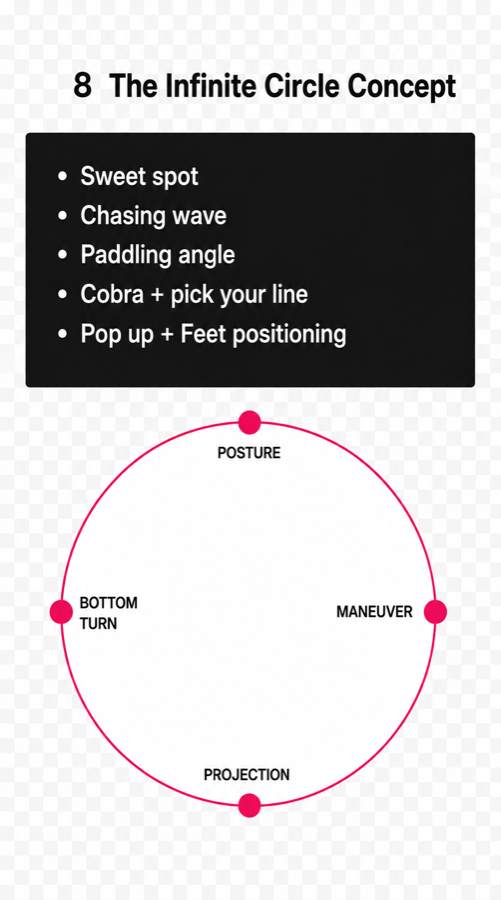
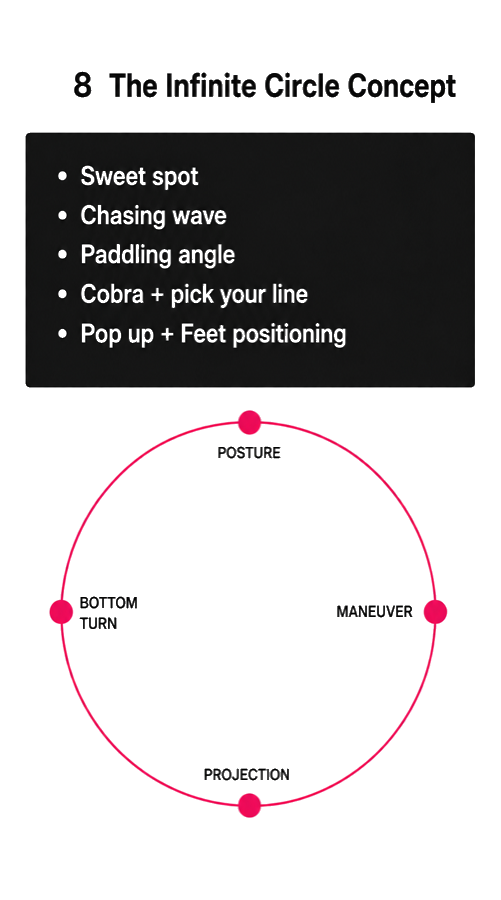
feat(analizador): sin damero, stickers volteables, carita feliz y dragon
Tres cosas que Marcelo vio usandolo con un video real.

1. EL DAMERO. "Los sticker algunos no salen sin fondo". Dos de sus archivos
   (tres-circulos y circulo-infinito) NO tienen transparencia: el damero
   gris de "fondo transparente" esta PINTADO adentro como pixeles. Se veia
   el ajedrez encima de la ola. scripts/clean-checker.py detecta esos
   pixeles (gris claro de baja saturacion) y los pasa a blanco, que es lo
   correcto para un sticker; los que si tienen alpha no se tocan. Corre solo
   dentro del sync, asi que si vuelve a pasar se limpia sin que nadie mire.
   De paso tres-circulos bajo de 665 KB a 159 KB.

2. VOLTEAR. "Quisiera darle vuelta a la pizza, ponerla flip, asi me sirve
   como angulo". Botones ⇋ y ⇅ con el sticker agarrado. El espejo se hace
   con escala negativa y el ancla al CENTRO del sticker, para que voltear no
   lo mueva de lugar; y el transformer toma el valor absoluto de la escala
   para no perder el espejo al redimensionar.

3. DOS STICKERS NUEVOS:
   · carita-feliz — para marcar lo que salio bien sin escribir nada.
   · dragon — cabeza de perfil volando hacia la derecha, con ala de membrana
     y cresta. Con ⇋ vuela hacia el otro lado, asi que sirve para los dos
     sentidos sin duplicar el archivo.

Once stickers: cinco suyos y seis dibujados que aprobo.

Changed region(s): [[0.3892, 0.3111, 0.4192, 0.3422], [0.1796, 0.2178, 0.2096, 0.2489]]

diff --git a/src/components/video-analyzer/DrawingCanvas.tsx b/src/components/video-analyzer/DrawingCanvas.tsx
@@ -126,6 +126,12 @@ function StickerNode({ shape, scale, selected, onSelect, onChange, opacity }: {
         width={shape.w ?? 200}
         height={shape.h ?? 200}
         rotation={shape.rot ?? 0}
+        // El espejo se hace con escala negativa y el punto de anclaje al
+        // medio, para que voltear NO mueva el sticker de lugar.
+        offsetX={(shape.w ?? 200) / 2}
+        offsetY={(shape.h ?? 200) / 2}
+        scaleX={shape.flipX ? -1 : 1}
+        scaleY={shape.flipY ? -1 : 1}
         opacity={(shape.alpha ?? 1) * opacity}
         draggable
         onPointerDown={onSelect}
@@ -135,14 +141,16 @@ function StickerNode({ shape, scale, selected, onSelect, onChange, opacity }: {
           if (!n) return;
           // Konva escala el nodo; lo pasamos a ancho/alto reales y reseteamos
           // la escala, así el sticker no se deforma al volver a tocarlo.
-          const sx = n.scaleX(), sy = n.scaleY();
-          n.scaleX(1); n.scaleY(1);
-          onChange({
-            points: [n.x(), n.y()],
-            w: Math.max(20, n.width() * sx),
-            h: Math.max(20, n.height() * sy),
-            rot: n.rotation(),
-          });
+          // El transformer deja la escala en el nodo; se pasa a ancho/alto
+          // reales. Se toma el VALOR ABSOLUTO para no perder el espejo, que
+          // vive aparte en flipX/flipY.
+          const sx = Math.abs(n.scaleX()), sy = Math.abs(n.scaleY());
+          const w = Math.max(20, n.width() * sx);
+          const h = Math.max(20, n.height() * sy);
+          n.scaleX(shape.flipX ? -1 : 1);
+          n.scaleY(shape.flipY ? -1 : 1);
+          n.offsetX(w / 2); n.offsetY(h / 2);
+          onChange({ points: [n.x(), n.y()], w, h, rot: n.rotation() });
         }}
       />
       {selected && (

diff --git a/src/components/video-analyzer/Toolbar.tsx b/src/components/video-analyzer/Toolbar.tsx
@@ -25,6 +25,7 @@ type Props = {
   stickerAlpha?: number | null;
   onStickerAlpha?: (a: number) => void;
   onDeleteSticker?: () => void;
+  onFlipSticker?: (axis: 'x' | 'y') => void;
   onChange: (next: DrawSettings) => void;
   onUndo: () => void;
   onClear: () => void;
@@ -38,6 +39,7 @@ export default function Toolbar({
   stickerAlpha,
   onStickerAlpha,
   onDeleteSticker,
+  onFlipSticker,
   onChange,
   onUndo,
   onClear,
@@ -119,6 +121,10 @@ export default function Toolbar({
             aria-label="Transparencia del sticker"
             className="w-20"
           />
+          {/* Voltear: la porción de pizza al revés sirve como ángulo hacia
+              el otro lado, sin necesidad de otro sticker. */}
+          <button onClick={() => onFlipSticker?.('x')} className={`${btn} bg-white/10`} title="Voltear horizontal">⇋</button>
+          <button onClick={() => onFlipSticker?.('y')} className={`${btn} bg-white/10`} title="Voltear vertical">⇅</button>
           <button onClick={onDeleteSticker} className={`${btn} bg-white/10`} title="Quitar sticker">✕</button>
         </div>
       )}

diff --git a/src/components/video-analyzer/VideoAnalyzer.tsx b/src/components/video-analyzer/VideoAnalyzer.tsx
@@ -353,7 +353,7 @@ export default function VideoAnalyzer({ scope }: { scope?: string }) {
       tool: "sticker",
       color: "#ffffff",
       width: 0,
-      points: [W / 2 - w / 2, H / 2 - (w * ratio) / 2],
+      points: [W / 2, H / 2],   // el punto guardado es el CENTRO (ver offsetX/Y)
       src,
       w,
       h: w * ratio,
@@ -744,6 +744,11 @@ export default function VideoAnalyzer({ scope }: { scope?: string }) {
         onAddSticker={addSticker}
         stickerAlpha={selectedSticker ? (selectedSticker.alpha ?? 0.85) : null}
         onStickerAlpha={(a) => updateSelected({ alpha: a })}
+        onFlipSticker={(axis) =>
+          updateSelected(axis === 'x'
+            ? { flipX: !selectedSticker?.flipX }
+            : { flipY: !selectedSticker?.flipY })
+        }
         onDeleteSticker={() => {
           if (!selectedId) return;
           const drop = (arr: Shape[]) => arr.filter((x) => x.id !== selectedId);

diff --git a/src/lib/constants/analyzer-stickers.ts b/src/lib/constants/analyzer-stickers.ts
@@ -14,6 +14,8 @@ export const STICKERS: StickerDef[] = [
   { id: 'ola', src: '/stickers/ola.png', ratio: 0.3333 },
   { id: 'tabla', src: '/stickers/tabla.png', ratio: 3.9474 },
   { id: 'tres-circulos', src: '/stickers/tres-circulos.png', ratio: 0.83 },
+  { id: 'carita-feliz', src: '/stickers/carita-feliz.svg', ratio: 1 },
+  { id: 'dragon', src: '/stickers/dragon.svg', ratio: 0.6774 },
   { id: 'llamas', src: '/stickers/llamas.svg', ratio: 0.3541 },
   { id: 'pizza-mitad', src: '/stickers/pizza-mitad.svg', ratio: 0.5755 },
   { id: 'pizza-porcion', src: '/stickers/pizza-porcion.svg', ratio: 1.303 },

diff --git a/src/components/video-analyzer/types.ts b/src/components/video-analyzer/types.ts
@@ -31,6 +31,8 @@ export type Shape = {
   h?: number;
   rot?: number;        // grados
   alpha?: number;      // 0..1 — para no tapar la ola
+  flipX?: boolean;     // espejo horizontal (la porción como ángulo al revés)
+  flipY?: boolean;     // espejo vertical
   // line / arrow: [x1, y1, x2, y2]
   // free: [x1, y1, x2, y2, ...]
   // circle: [cx, cy, radius]

diff --git a/scripts/clean-checker.py b/scripts/clean-checker.py
@@ -1,0 +1,27 @@
+# Quita el cuadriculado de "transparencia" que algunos exportadores PINTAN
+# dentro de la imagen. No es transparencia real: son píxeles grises y blancos,
+# y por eso salían con el damero encima del video.
+# Se reemplaza por blanco, que es lo correcto para un sticker.
+import sys
+from PIL import Image
+
+path = sys.argv[1]
+im = Image.open(path)
+if "A" in im.mode:            # ya tiene transparencia de verdad: no se toca
+    sys.exit(0)
+
+im = im.convert("RGB")
+px = im.load()
+w, h = im.size
+changed = 0
+for y in range(h):
+    for x in range(w):
+        r, g, b = px[x, y]
+        # Gris claro o blanco = damero. Se exige poca saturación para no
+        # tocar colores claros de verdad (el amarillo del queso, el rosa).
+        if r > 186 and g > 186 and b > 186 and max(r, g, b) - min(r, g, b) < 14:
+            if (r, g, b) != (255, 255, 255):
+                changed += 1
+            px[x, y] = (255, 255, 255)
+im.save(path)
+print(f"  · {path.split('/')[-1]}: {changed} píxeles de damero → blanco")
